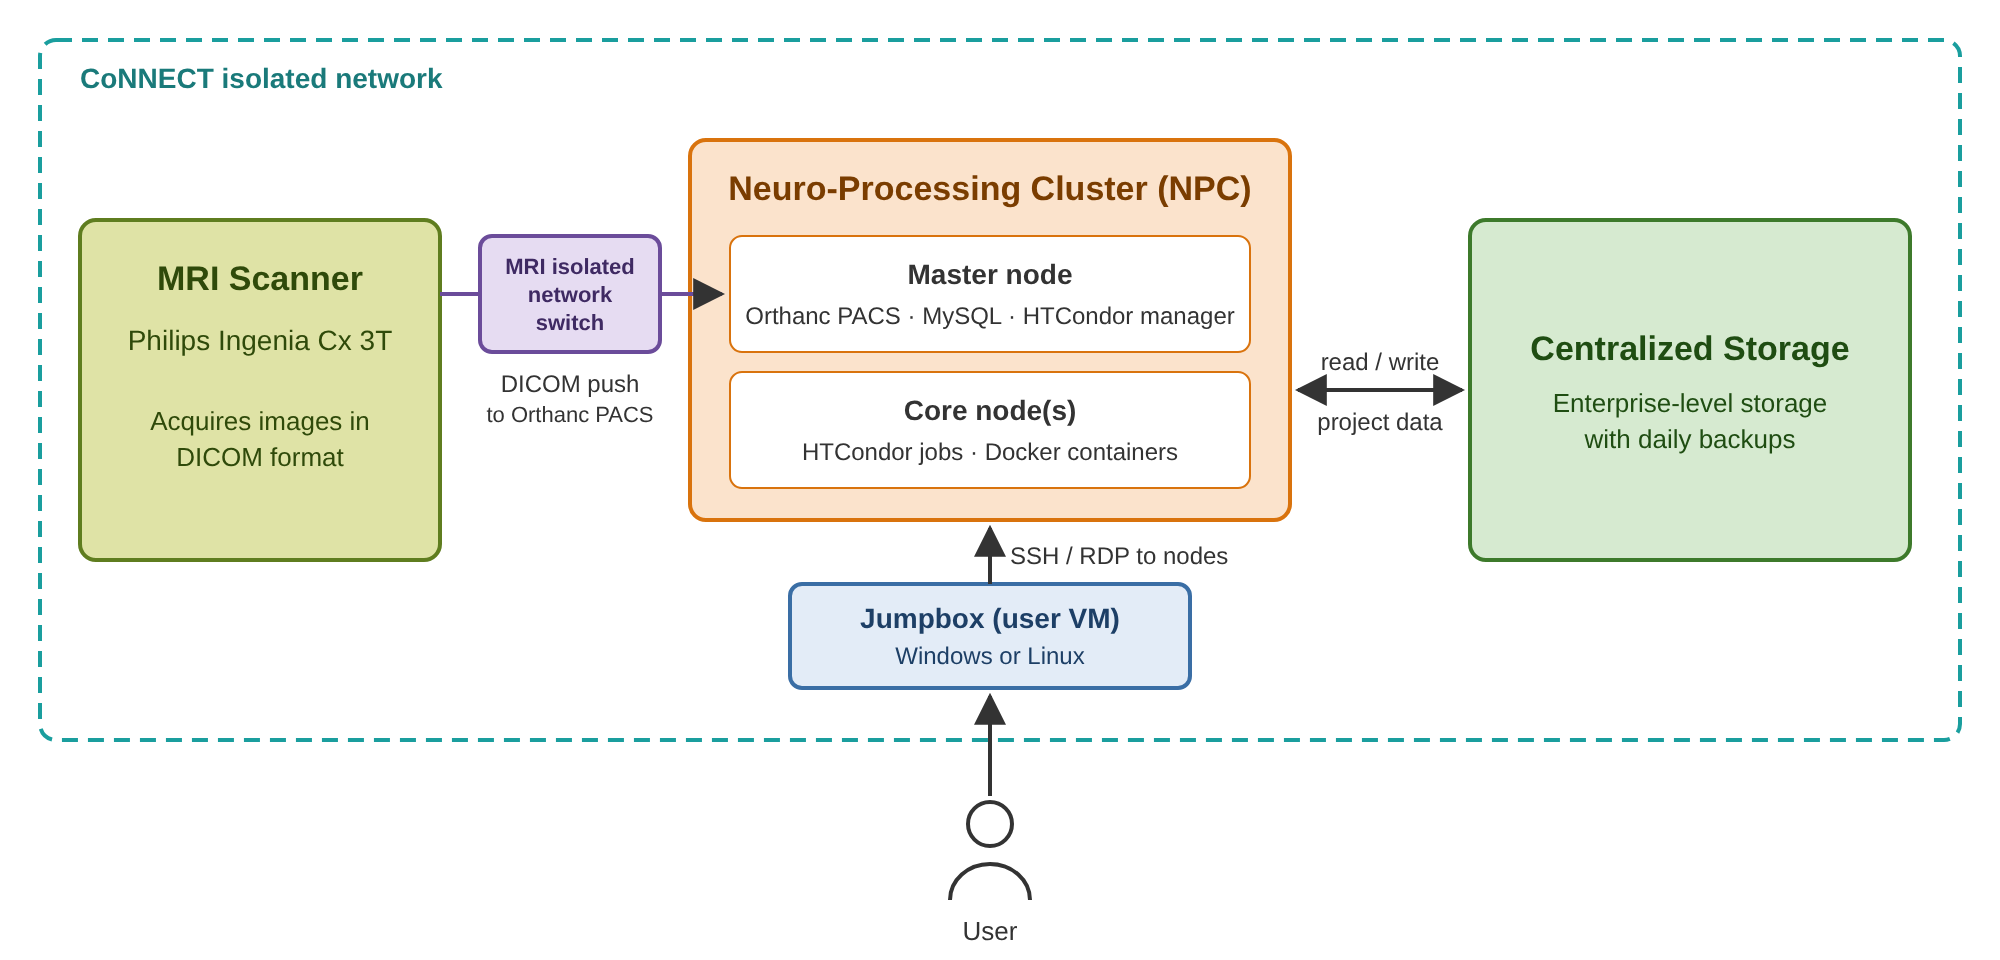
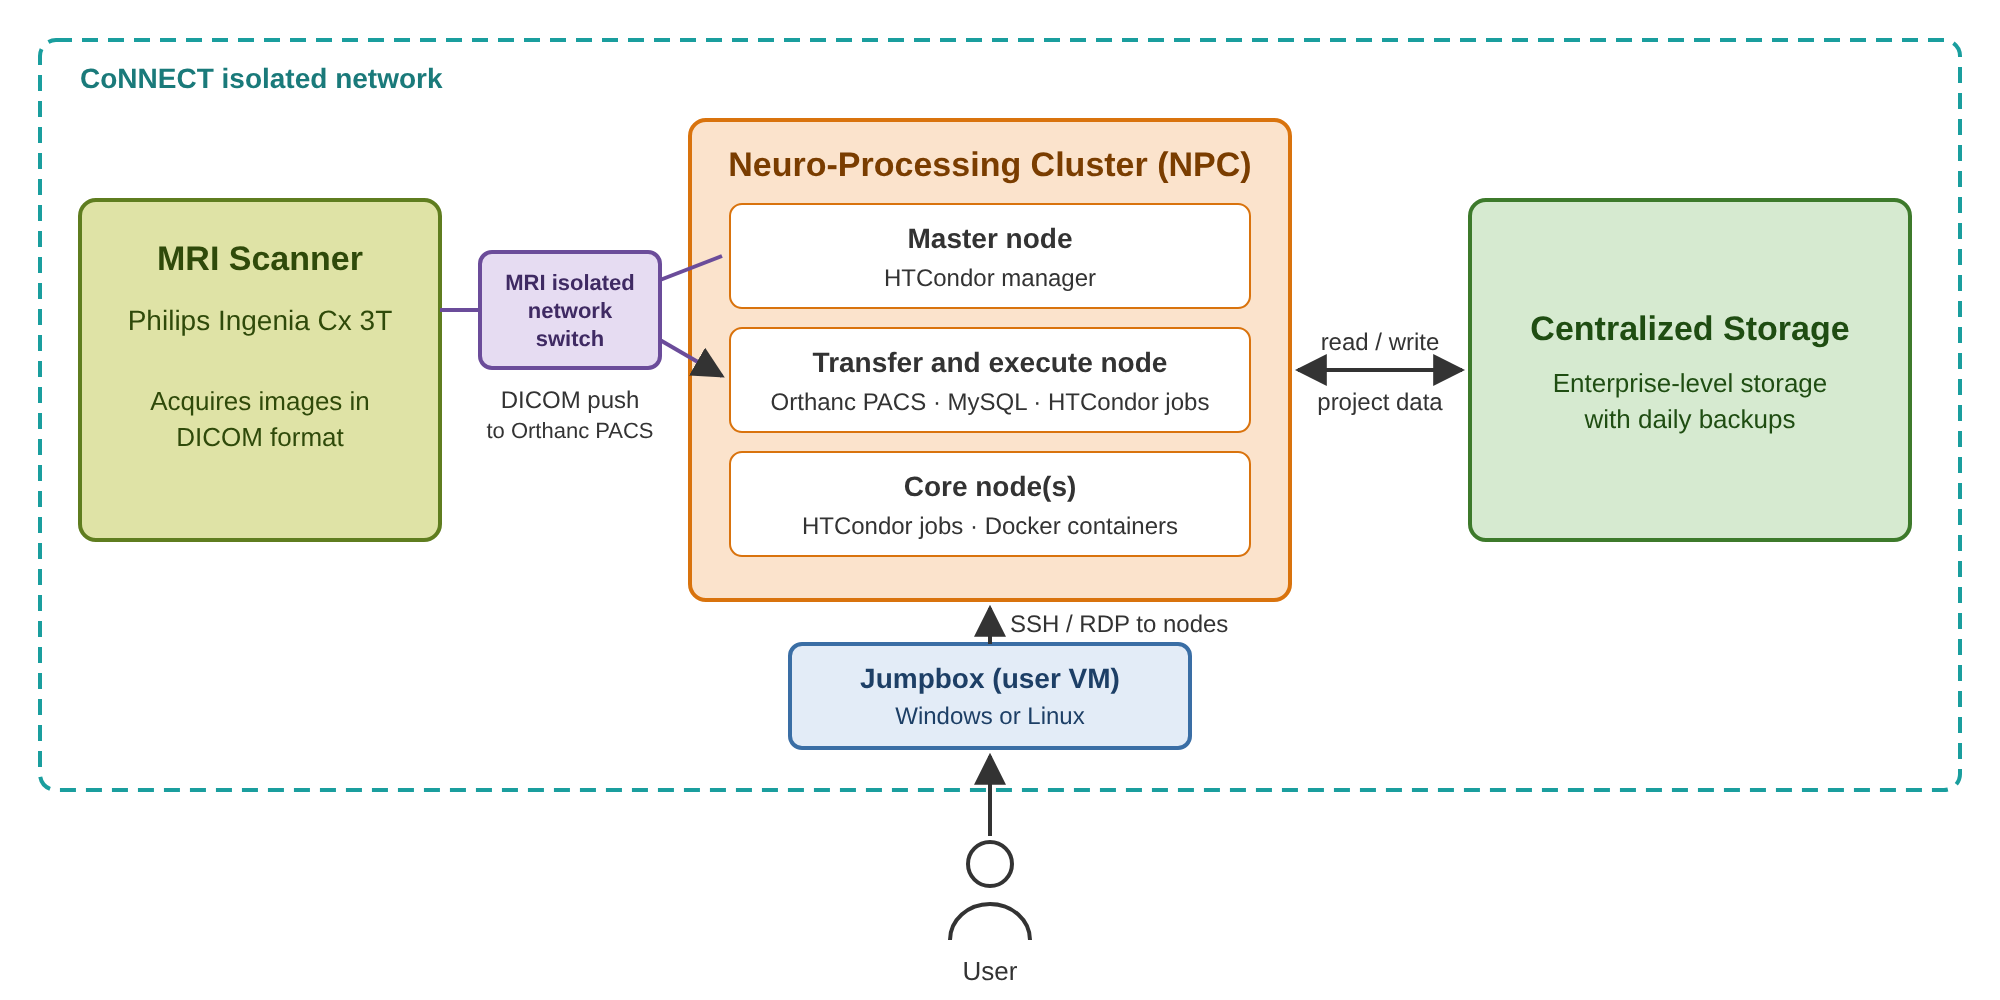
Docs: support tools table, transfer and execute node, PACS grabber updates
Replace the support tools figure placeholder with a table of each tool's
CLI and Docker support and function. Describe Orthanc PACS, MySQL and the
temporary PACS storage (/PACS_m2) as running on the NPC transfer and
execute node, and update the systems overview, PACS transfer and PACS
grabber figures to match. Rewrite the PACS grabber text around the
transfer to centralized storage, document the ses-<YYYYMMDD> fallback,
redraw the source DICOM location figure for the storage bucket layout,
and link the PACS section to the grabber page.

Claude-Session: https://claude.ai/code/session_01RuKq8sGMeBb23TQgV9bpw7

diff --git a/docs/source/_images/pacs-grabber_sourcedata_location.html b/docs/source/_images/pacs-grabber_sourcedata_location.html
@@ -1,0 +1,38 @@
+<!doctype html>
+<html><head><meta charset="utf-8">
+<style>
+  body { margin:0; background:#fff; font-family: Helvetica, Arial, sans-serif; }
+  .wrap { width: 1080px; padding: 28px 32px; box-sizing: border-box; }
+  h1 { font-size: 20px; margin: 0 0 18px; color:#333; }
+  table { border-collapse: collapse; }
+  td { padding: 3px 0; vertical-align: middle; }
+  td.t { font-family: Menlo, Consolas, "DejaVu Sans Mono", monospace; font-size: 15px; white-space: pre; color:#222; padding-right: 28px; }
+  td.c { font-size: 13px; color:#555; }
+  .lvl { display:inline-block; width:20px; height:20px; border-radius:50%; background:#c0392b; color:#fff; font-size:12px; font-weight:bold; text-align:center; line-height:20px; margin-right:8px; font-family: Helvetica, Arial, sans-serif; }
+  .mount { color:#1f4d12; font-weight:bold; }
+  .proj  { color:#7a3d00; font-weight:bold; }
+  .grant { color:#1d3f66; font-weight:bold; }
+  .title { color:#3f2a63; font-weight:bold; }
+  .bids  { color:#0b6e6e; font-weight:bold; }
+  .bidssub { color:#0b6e6e; font-weight:bold; }
+  .dim   { color:#999; }
+  tr.bidsrow td.t, tr.bidsrow td.c { background:#e6f4f4; }
+  .legend { margin-top:16px; font-size:12px; color:#555; }
+</style></head>
+<body><div class="wrap">
+<h1>Location of Source DICOM Data</h1>
+<table>
+<tr><td class="t"><span class="mount">&lt;storage_mount&gt;/</span></td><td class="c">Local mount of the project's centralized storage bucket</td></tr>
+<tr><td class="t">└── <span class="proj">projects/</span></td><td class="c"></td></tr>
+<tr><td class="t">    └── <span class="grant">&lt;contract_year&gt;_&lt;funding_source&gt;/</span></td><td class="c"></td></tr>
+<tr><td class="t">        └── <span class="title">&lt;project_title&gt;/</span></td><td class="c">Project folder (dataDir in credentials.json)</td></tr>
+<tr><td class="t">            ├── <span class="dim">code/</span></td><td class="c"></td></tr>
+<tr class="bidsrow"><td class="t">            ├── <span class="bids">sourcedata/</span></td><td class="c">Original DICOM images, moved here from /PACS_m2</td></tr>
+<tr class="bidsrow"><td class="t">            │   └── <span class="bidssub">sub-&lt;label&gt;/</span></td><td class="c">Subject label from the DICOM Patient's Name (0010,0010)</td></tr>
+<tr class="bidsrow"><td class="t">            │       └── <span class="bidssub">ses-&lt;label&gt;/</span></td><td class="c">Session label from the DICOM Patient's Name (0010,0010)</td></tr>
+<tr class="bidsrow"><td class="t">            │           └── acq-&lt;NN&gt;_&lt;series_time&gt;_&lt;protocol_name&gt;/</td><td class="c">One folder per DICOM series, holding its DICOM files</td></tr>
+<tr><td class="t">            ├── <span class="dim">rawdata/</span></td><td class="c">NIfTI images converted from sourcedata (BIDS)</td></tr>
+<tr><td class="t">            └── <span class="dim">derivatives/</span></td><td class="c"></td></tr>
+</table>
+<div class="legend">Shaded rows show where connect_pacs_dicom_grabber.py places the source DICOM data.</div>
+</div></body></html>

diff --git a/docs/source/broad_analysis_tools/connect_pacs_dicom_grabber.rst b/docs/source/broad_analysis_tools/connect_pacs_dicom_grabber.rst
@@ -1,8 +1,7 @@
-
-
+.. _connect_pacs_dicom_grabber_python:
 
 connect_pacs_dicom_grabber.py
-==========================
+=============================
 
 .. _pacs_grabber_diagram:
 
@@ -13,18 +12,28 @@ connect_pacs_dicom_grabber.py
    Sequence diagram for the CoNNECT PACS DICOM grabber Python function.
     
 
-This function moves DICOM images from their local temporary PACS storage location (/resshare/PACS) to their associated sourcedata directory (:numref:`pacs_grabber_sourcedata_directory`), performs DICOM-to-NIfTI conversion via :ref:`convert_dicoms.py <convert_dicoms_python>`, and 
-moves the NIfTI images into a BIDS structure within the Project's rawdata directory (:numref:`pacs_grabber_diagram`). The <project_identifier>, subject label, and session label (optional) are extracted from the DICOM header 
-Patient's Name (0010,0010) attribute. These elements are space-delimited. The session label is appended to an acquisition date label using the format YYYYMMDD. 
+This function completes the PACS data transfer from the MRI scanner to centralized storage (see the PACS section of :doc:`Cluster Computing </cluster_computing/index>`). The MRI scanner
+pushes DICOM images to the Orthanc PACS, which writes them to the temporary PACS storage location (``/PACS_m2``) on the NPC
+:term:`transfer and execute node` while they are transferred. This function then moves the DICOM images from ``/PACS_m2`` to the subject/session folder in the project's ``sourcedata``
+directory on the centralized storage bucket (:numref:`pacs_grabber_sourcedata_directory`), performs DICOM-to-NIfTI conversion via
+:ref:`convert_dicoms.py <convert_dicoms_python>`, and moves the NIfTI images into a BIDS structure within the project's ``rawdata``
+directory (:numref:`pacs_grabber_diagram`).
+
+The <project_identifier>, subject label, and session label are extracted from the DICOM header Patient's Name (0010,0010)
+attribute. These elements are space-delimited, for example ``<project_identifier> <subject_label> <session_label>``. The subject
+label sets the ``sub-<label>`` folder and the session label sets the ``ses-<label>`` folder. If the Patient's Name does not include
+a session label, the acquisition (study) date is used as the session label in the format YYYYMMDD (``ses-<YYYYMMDD>``). Each DICOM
+series is stored in its own folder within the session folder.
 
 
 .. _pacs_grabber_sourcedata_directory:
 
 .. figure:: ../_images/pacs-grabber_sourcedata_location.png
    :align: center
-   :width: 15%
+   :width: 90%
       
-   Final location of source DICOM data following transfer from MRI via Orthanc PACS and connect_pacs_dicom_grabber.py.
+   Final location of source DICOM data in the project's centralized storage bucket, following transfer from the MRI via the
+   Orthanc PACS and connect_pacs_dicom_grabber.py.
 
 
 .. note:: This function is continuously running in the background on the CoNNECT NPC master node (and loaded at startup) as the pacs-grabber.service.

diff --git a/docs/source/support_tools/index.rst b/docs/source/support_tools/index.rst
@@ -9,7 +9,81 @@ Several custom support tools have been created to aid in the batch processing. T
 described in the previous section.
 
 
-.. note:: FIGURE TO BE INSERTED
+.. _support_tools_table:
+
+.. list-table:: CoNNECT support tools. *CLI*: the tool can be run from the command line. *Docker*: a connect_*.py script can run
+   the tool in the wsuconnect/neuro Docker container through :term:`HTCondor`.
+   :widths: 30 10 10 50
+   :header-rows: 1
+
+   * - **Tool**
+     - **CLI**
+     - **Docker**
+     - **Function**
+   * - :ref:`bids <bids_python>`
+     - No
+     - No
+     - Builds BIDS filenames and reads entity labels from them
+   * - :ref:`condor <condor_python>`
+     - No
+     - No
+     - Creates HTCondor submit files (Docker or vanilla universe)
+   * - :ref:`convert_dicoms.py <convert_dicoms_python>`
+     - Yes
+     - Yes
+     - Converts DICOM images to NIfTI images with dcm2niix
+   * - :ref:`copy_dirs.py <copy_dirs_python>`
+     - Yes
+     - No
+     - Copies or moves directories to one destination
+   * - :ref:`dti_flirt.py <dti_flirt_python>`
+     - Yes
+     - Yes
+     - FLIRT registration of DWI images to structural and standard space
+   * - :ref:`dti_preprocess_wf.py <dti_preprocess_python>`
+     - Yes
+     - Yes
+     - DWI preprocessing workflow (eddy, DTIFIT)
+   * - :ref:`evaluate_source_file_transfer.py <evaluate_source_file_transfer_python>`
+     - Yes
+     - No
+     - Checks that all expected files were transferred for a subject/session
+   * - :ref:`feat_full_firstlevel.py <feat_full_firstlevel_python>`
+     - Yes
+     - Yes
+     - Runs FSL FEAT first-level fMRI analysis
+   * - :ref:`flirt_pngappend.py <flirt_pngappend>`
+     - Yes
+     - No
+     - Creates a PNG overlay image to check registration
+   * - :ref:`flirt.py <flirt_python>`
+     - Yes
+     - Yes
+     - FLIRT registration, with optional brain extraction
+   * - :ref:`fsreconall_stage1_wf.py <fsreconall_stage1_python>`
+     - Yes
+     - Yes
+     - FreeSurfer recon-all, stage 1
+   * - :ref:`fsreconall_stage2_wf.py <fsreconall_stage2_python>`
+     - Yes
+     - Yes
+     - FreeSurfer recon-all, stages 2 and 3
+   * - :ref:`mysql <mysql_python>`
+     - No
+     - No
+     - Queries and updates the project MySQL tables
+   * - :ref:`prepare_examcard_html.py <prepare_examcard_html_python>`
+     - No
+     - No
+     - Prepares the HTML header for converted ExamCards
+   * - :ref:`remove_dirs.py <remove_dirs_python>`
+     - Yes
+     - No
+     - Deletes directories
+   * - :ref:`RestToolbox <RestToolbox_python>`
+     - No
+     - No
+     - REST requests (GET, POST, PUT, DELETE) to the Orthanc PACS
 
 
 

diff --git a/docs/source/cluster_computing/MySQL_database.rst b/docs/source/cluster_computing/MySQL_database.rst
@@ -4,8 +4,8 @@
 MySQL Database
 ==============
 
-A CoNNECT :term:`MySQL` database has been implemented on the master node to index files in each project's directory. This database and associated tools 
-therein are local to the master node, so core nodes cannot query or update it. Different tables must be established
+A CoNNECT :term:`MySQL` database has been implemented on the NPC :term:`transfer and execute node` to index files in each project's directory. This database and
+associated tools therein are local to the transfer and execute node, so other nodes cannot query or update it. Different tables must be established
 for each independent project, which can be developed using :doc:`this custom toolkit <../broad_analysis_tools/index>`.
 
 MySQL can be accessed through the command line:
@@ -66,7 +66,7 @@ Hyphens (``-``) are not allowed in table names and are replaced with underscores
 Helpful MySQL Commands
 ----------------------
 
-These helpful commands can be executed on the master node:
+These helpful commands can be executed on the transfer and execute node:
 
 
 Logging in to MySQL

diff --git a/docs/source/cluster_computing/open-source_software.rst b/docs/source/cluster_computing/open-source_software.rst
@@ -7,9 +7,11 @@ Picture Archiving and Communication System (PACS)
 -------------------------------------------------
 
 `Orthanc <https://www.orthanc-server.com/>`__ is the official open-source PACS in place at the WSU CoNNECT. Using this system, which runs on the 
-:doc:`master node of the CoNNECT NPC </cluster_computing/index>`, DICOM images can be sent directly from the MRI scanner to the CoNNECT NPC centralized storage.
+:term:`transfer and execute node` of the :doc:`CoNNECT NPC </cluster_computing/index>`, DICOM images can be sent directly from the MRI scanner to the CoNNECT NPC
+centralized storage.
 The PACS Grabber Service then automatically detects new DICOM images arriving at the PACS storage location, moves them to the appropriate project/subject/session's sourcedata
 directory, converts them to NIfTI images and stores them in the project/subject/session's rawdata directory according to the BIDS specification.
+See :ref:`connect_pacs_dicom_grabber.py <connect_pacs_dicom_grabber_python>` for details on the transfer to the subject/session folders.
 
 .. _orthanc_server:
 

diff --git a/docs/source/systems_overview/index.rst b/docs/source/systems_overview/index.rst
@@ -14,8 +14,9 @@ The CoNNECT MRI facility consists of several components described below.
    :align: center
    :width: 90%
 
-   Overview of the CoNNECT systems. The MRI scanner and the NPC master node share the MRI scanner's isolated
-   network switch, over which the scanner pushes DICOM images to the Orthanc PACS on the master node. The :term:`NPC` stores project data in BIDS directories on centralized storage. Users reach the NPC
+   Overview of the CoNNECT systems. The MRI scanner, the NPC master node and the NPC transfer and execute node share the
+   MRI scanner's isolated network switch, over which the scanner pushes DICOM images to the Orthanc PACS on the transfer and
+   execute node. The :term:`NPC` stores project data in BIDS directories on centralized storage. Users reach the NPC
    nodes over SSH or RDP from their :term:`jumpbox`.
 
 .. include:: mri.rst

diff --git a/docs/source/glossary.rst b/docs/source/glossary.rst
@@ -132,6 +132,10 @@ Computing and Storage
    master node
       The main controller of the :term:`NPC`.
 
+   transfer and execute node
+      The node of the :term:`NPC` that runs the Orthanc :term:`PACS` and the :term:`MySQL` database, and holds the temporary PACS storage (``/PACS_m2``) for
+      DICOM images transferred from the MRI scanner. It also runs jobs submitted through :term:`HTCondor`.
+
    core node
       A compute node of the :term:`NPC` that runs jobs submitted through :term:`HTCondor`.
 
